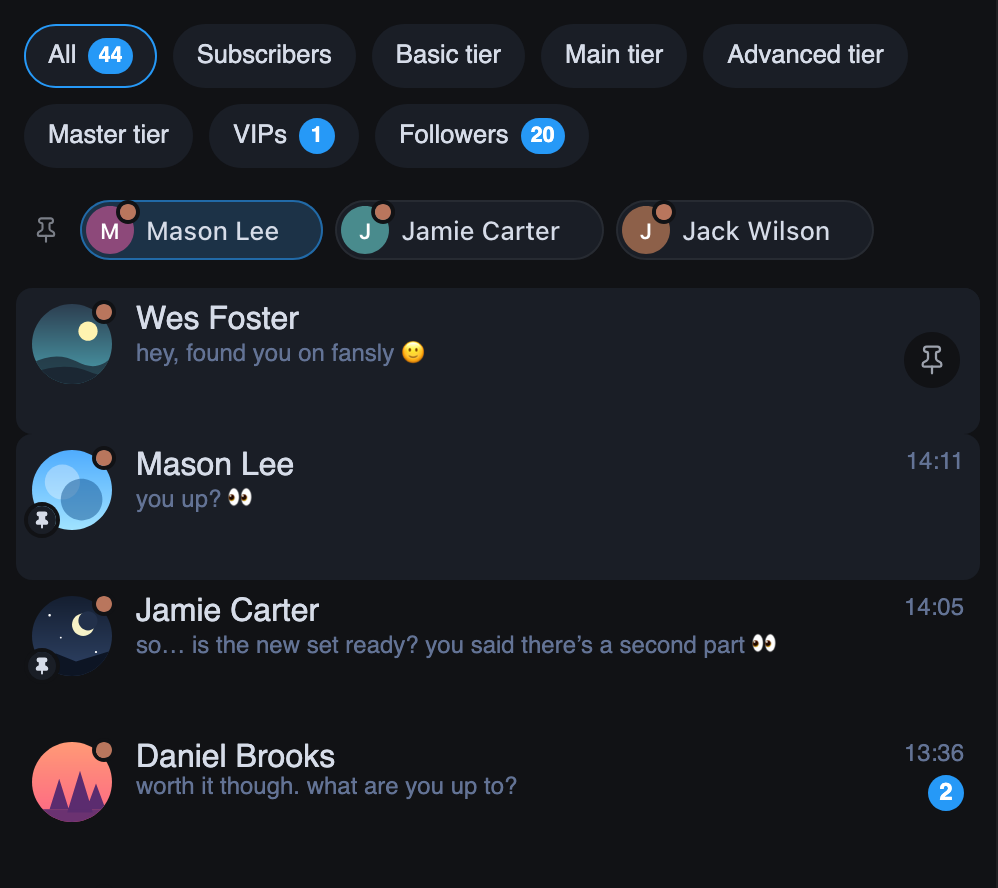
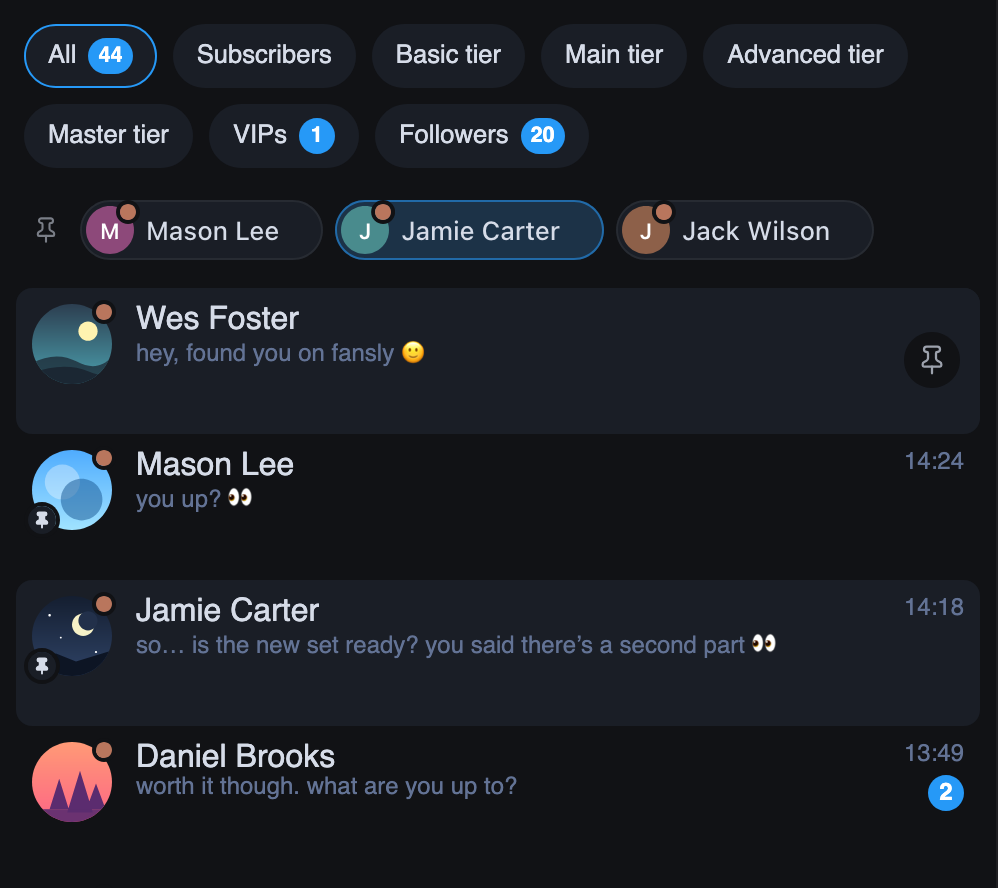
test(see): fansly-pins with FBuddy's stand-in, the time click and the reload's timing
FBuddy's stand-in drops the gap under the list's chips, as FBuddy does;
the scenario pins six chats beside it, clicks a pinned row's time and
says when the strip came after a reload.

diff --git a/packages/testing/e2e/see/scenarios/fansly-pins.see.ts b/packages/testing/e2e/see/scenarios/fansly-pins.see.ts
@@ -14,6 +14,7 @@ import { join } from 'node:path';
 import { $, browser } from '@wdio/globals';
 
 import { readLocalStorage, readReport, writeLocalStorage } from '../../support/extension';
+import { setFanslyNeighbor } from '../../support/fansly-neighbor';
 import { FANSLY_MAIN, callFansly, fanslyStandUrl, waitForFanslyStandReady } from '../../support/fansly-stand';
 import { openOptions, waitForOptions } from '../../support/pages';
 import { around, lap, scenario, type Box, type See } from '../kit';
@@ -194,13 +195,13 @@ async function leaveList(): Promise<void> {
 }
 
 /** A row's pin button: the pointer over the row, then the button once it has faded in. */
-async function hoverRow(group: string): Promise<{ x: number; y: number }> {
+async function hoverRow(group: string, timeout = 5_000): Promise<{ x: number; y: number }> {
   const at = await centre(rowOf(group));
   await pointTo(at.x - 60, at.y);
   await browser.waitUntil(async () => browser.execute((sel: string) => {
     const box = document.querySelector(sel)?.parentElement;
     return box !== null && box !== undefined && box.style.opacity === '1';
-  }, buttonOf(group)), { timeout: 5_000, interval: 50, timeoutMsg: `no pin button on the row of ${group}` });
+  }, buttonOf(group)), { timeout, interval: 50, timeoutMsg: `no pin button on the row of ${group}` });
   await browser.pause(150);
   return centre(buttonOf(group));
 }
@@ -392,14 +393,37 @@ scenario(
     }
     save();
 
+    // ── A9 (the last part): a click on a pinned row's time, outside its pin button, opens the chat ──
+    const time = await browser.execute((sel: string) => {
+      const node = document.querySelector(sel);
+      const rect = node?.getBoundingClientRect();
+      return rect === undefined ? null : { x: rect.x + 3, y: rect.y + 3 };
+    }, `${rowOf(r1)} .message-time`);
+    if (time !== null) {
+      await pointTo(time.x - 80, time.y + 10);
+      await browser.pause(200);
+      const hit = await browser.execute((x: number, y: number) => {
+        const node = document.elementFromPoint(x, y);
+        return node === null ? null : node.closest('[data-cg-inbox]') !== null ? 'ours' : node.className || node.localName;
+      }, time.x, time.y);
+      await clickAt(time.x, time.y);
+      await browser.waitUntil(async () => (await browser.getUrl()).endsWith(`/messages/${r1}`), { timeout: 8_000 }).catch(() => undefined);
+      measures['A9-time-click'] = { at: time, elementThere: hit, opened: (await browser.getUrl()).endsWith(`/messages/${r1}`) };
+    }
+    await waitPins((report) => report.chips.some((item) => item.groupId === r1 && item.open), 'the opened chat\'s chip is not lit');
+    await leaveList();
+    await browser.pause(300);
+    await shootStrip(s, 'chip-lit-open');
+
     // ── A chip clicked: the chat opens through Fansly's router, its chip lit ──
-    await chip(r1, ' .cg-pin__open').click();
-    await browser.waitUntil(async () => (await browser.getUrl()).endsWith(`/messages/${r1}`), { timeout: 8_000, timeoutMsg: 'the chip did not open its chat' });
-    await waitPins((report) => report.chips.some((item) => item.groupId === r1 && item.open), 'the open chat\'s chip is not lit');
+    await chip(open, ' .cg-pin__open').click();
+    await browser.waitUntil(async () => (await browser.getUrl()).endsWith(`/messages/${open}`), { timeout: 8_000, timeoutMsg: 'the chip did not open its chat' });
+    await waitPins((report) => report.chips.some((item) => item.groupId === open && item.open), 'the open chat\'s chip is not lit');
     await leaveList();
     await browser.pause(300);
     await shootStrip(s, 'chip-opened');
-    measures['chip-click'] = { opened: (await browser.getUrl()).endsWith(`/messages/${r1}`) };
+    measures['chip-click'] = { opened: (await browser.getUrl()).endsWith(`/messages/${open}`) };
+    save();
 
     // ── A5: a search — Fansly's spinner under the strip, the strip in its place ──
     const strip5 = (await geometry()).strip;
@@ -599,9 +623,46 @@ scenario(
       lastFrame: settled,
       scTopMoveAfterFirstRow: firstRow === null || settled === null ? null : settled.scTop - firstRow.scTop,
       stripAtFirstRow: firstRow?.strip ?? null,
+      stripCameMs: reload.find((frame) => frame.strip > 0)?.t ?? null,
+      stripFullMs: reload.find((frame) => frame.strip >= 44)?.t ?? null,
+      slid: (reload.find((frame) => frame.strip >= 44)?.t ?? 0) > (reload.find((frame) => frame.strip > 0)?.t ?? 0),
       expiredPinGone: expired === null ? null : !((await pinsReport())?.pins.includes(expired) ?? true),
     };
     await shootStrip(s, 'after-reload');
+    save();
+
+    // ── FBuddy beside the list (its stand-in: no gap under the chips, its 400 px panel): six pins in a narrower column ──
+    await setFanslyNeighbor({ mode: 'after' });
+    await browser.refresh();
+    await waitForFanslyStandReady();
+    await waitPins((report) => report.mounted && report.height === 44, 'no strip with FBuddy', 20_000);
+    // The strip slides in once the page shows rows: the rows stand still again before the pointer goes over them.
+    await browser.pause(600);
+    const noButton: string[] = [];
+    for (let tries = 0; tries < 14; tries += 1) {
+      const now = (await pinsReport())?.pins ?? [];
+      if (now.length >= 6) break;
+      const next = (await renderedRows()).find((group) => !now.includes(group) && !noButton.includes(group));
+      if (next === undefined) break;
+      const button = await hoverRow(next, 2_000).catch(() => null);
+      if (button === null) {
+        noButton.push(next);
+        continue;
+      }
+      await clickAt(button.x, button.y);
+      await waitPins((report) => report.pins.includes(next), `${next} was not pinned`);
+    }
+    measures['fbuddy-rows-without-button'] = noButton;
+    await leaveList();
+    await waitPins((report) => report.height === 44 && report.chips.every((item) => item.state === 'shown'), 'the six chips did not settle');
+    await browser.pause(400);
+    measures['fbuddy-six-pins'] = { geometry: await geometry(), chips: (await pinsReport())?.chips.length ?? null };
+    await shootStrip(s, 'strip-fbuddy-six');
+    await setFanslyNeighbor(null);
+    await browser.refresh();
+    await waitForFanslyStandReady();
+    await waitPins((report) => report.mounted && report.height === 44, 'the strip did not come back without FBuddy', 20_000);
+    await browser.pause(400);
     save();
 
     // ── The last unpin (A2: the strip slides out once the pointer is away) ──

diff --git a/packages/testing/src/fake-fansly/neighbor/styles.ts b/packages/testing/src/fake-fansly/neighbor/styles.ts
@@ -16,6 +16,8 @@ export const STYLE_FIXES = [
   '.message-composer{flex-wrap:wrap-reverse!important}',
   '.message-entry{flex:1 0 100%!important}',
   '.message-composer .collapsable-actions button{min-width:0!important;padding:0 .25rem!important;background:none!important}',
+  // The list's filter chips with no gap under them (FBuddy main.js:45397-45462, seen live 2026-11-12).
+  '.messages-nav-wrapper{margin-bottom:0!important}',
 ].join('\n');
 
 /** `style#fb-dynamic-tweaks-css` with the defaults (`b3 = 1800`, S5 §2.5). */
